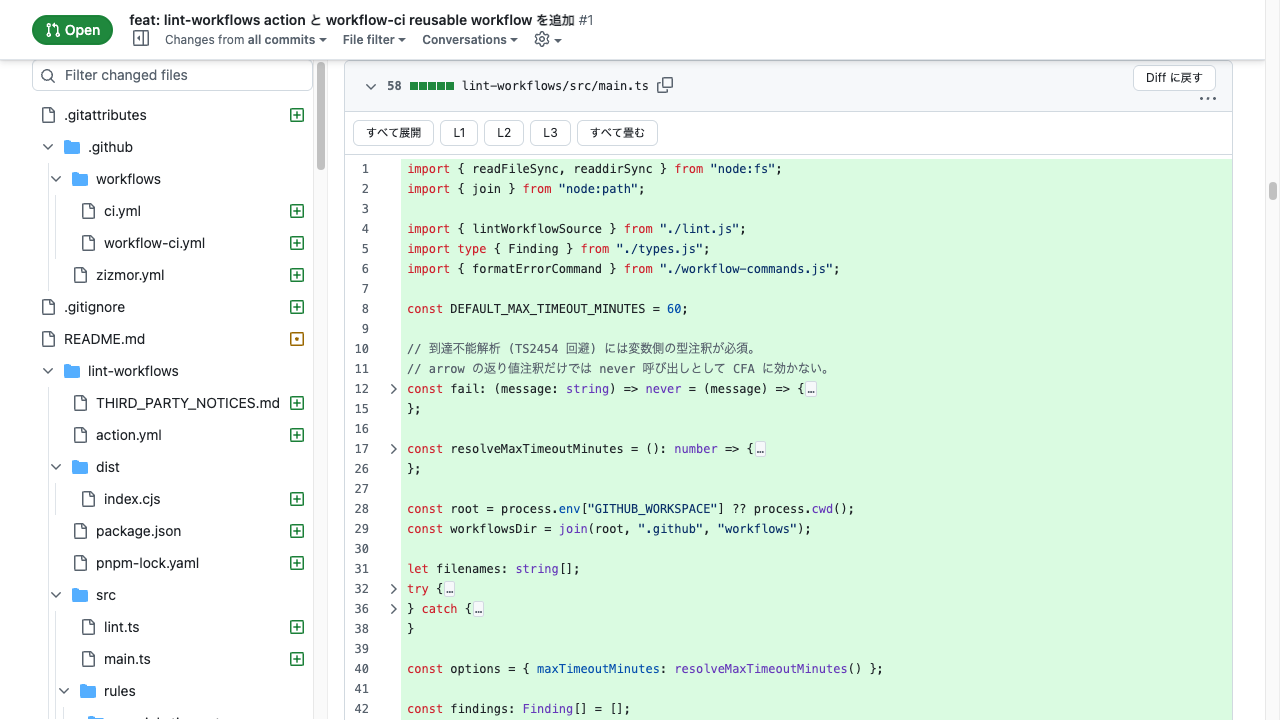
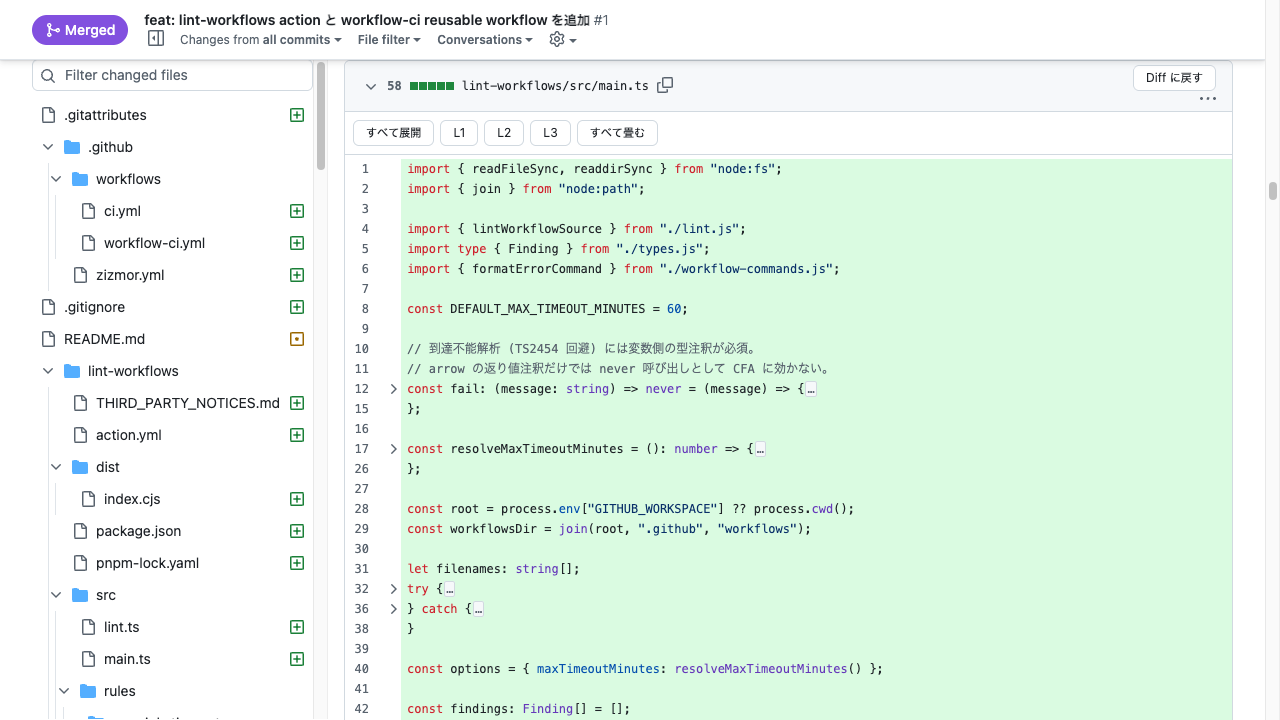
FoldableViewer から CodeMirror の型露出を無くす
view プロパティは外部で未使用。契約を振る舞いだけに保ち、
エディタライブラリ変更の影響を src/viewer/ 配下に閉じ込める。

Changed region(s): [[0.0, 0.0, 0.4688, 0.0611]]

diff --git a/src/viewer/create-viewer.ts b/src/viewer/create-viewer.ts
@@ -12,8 +12,9 @@ import { githubHighlightStyle } from "./github-highlight";
 import { computeFoldRanges, type FoldRange } from "./indent-fold";
 import { languageForFilename } from "./languages";
 
+/* CodeMirror の型は意図的に露出させない。呼び出し側との契約を振る舞いだけに保ち、
+   エディタライブラリ変更の影響を src/viewer/ 配下に閉じ込める */
 export interface FoldableViewer {
-  view: EditorView;
   foldToLevel: (level: number) => void;
   foldAllRanges: () => void;
   unfoldAllRanges: () => void;
@@ -171,7 +172,6 @@ export function createViewer(
   };
 
   return {
-    view,
     foldToLevel: (level: number) =>
       foldRanges(ranges.filter((r) => r.depth >= level)),
     foldAllRanges: () => foldRanges(ranges),
